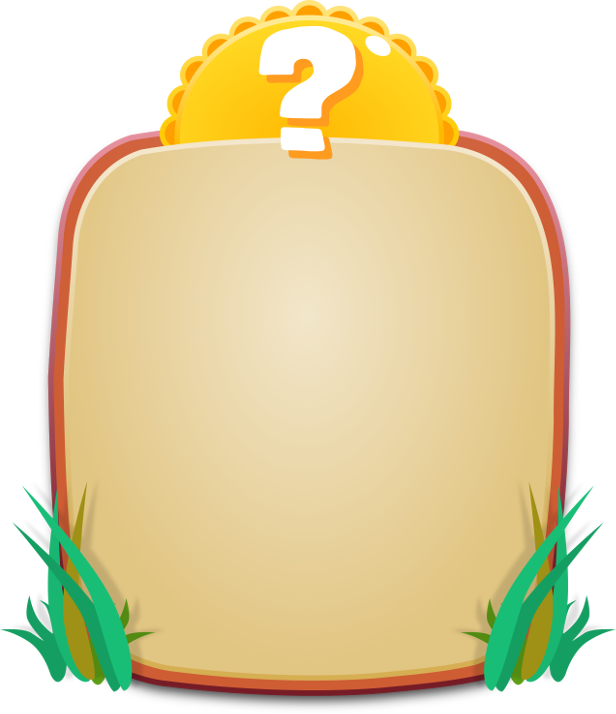
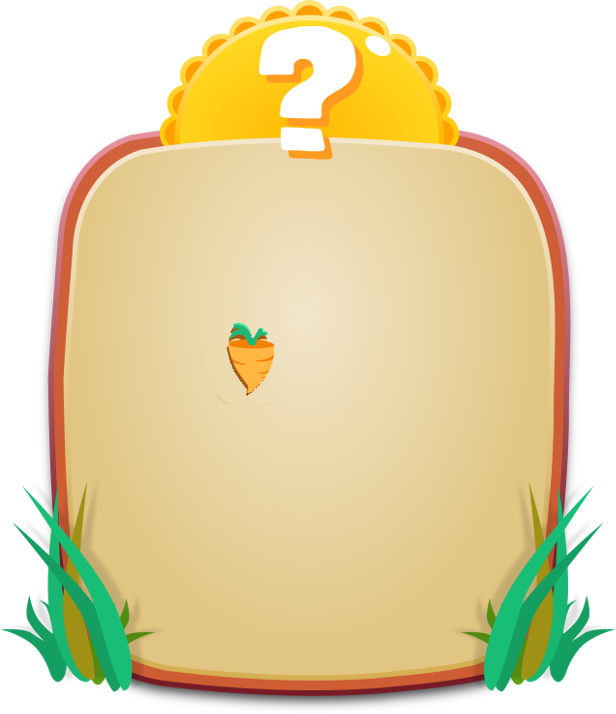
Finished hints functionality

Changed region(s): [[0.3701, 0.4314, 0.4627, 0.5546]]

diff --git a/core/src/es/seastorm/merlin/screens/labyrint/LabyrintScreenController.java b/core/src/es/seastorm/merlin/screens/labyrint/LabyrintScreenController.java
@@ -22,6 +22,7 @@ import es.seastorm.merlin.assets.GameAssets;
 import es.seastorm.merlin.cache.Cache;
 import es.seastorm.merlin.gameobjects.Animal;
 import es.seastorm.merlin.gameobjects.Box;
+import es.seastorm.merlin.screens.labyrint.help.BuyHintButton;
 import es.seastorm.merlin.screens.labyrint.help.HelpItem;
 import es.seastorm.merlin.screens.labyrint.help.InfoWindow;
 import es.seastorm.merlin.screens.labyrint.logic.Engine2;
@@ -59,12 +60,14 @@ public class LabyrintScreenController extends Controller {
     int currentSection;
     int currentLevel;
     int numMoves;
+    int megahit = 0;
 
 
     Array<SimpleGameObject> wallsH;
     Array<SimpleGameObject> wallsV;
     Array<HelpItem> helpItems;
-    SimpleGameObject btnHint, btnBuyHint;
+    SimpleGameObject btnHint;
+    BuyHintButton btnBuyHint;
 
 
     Labyrinth labyrinth;
@@ -259,9 +262,9 @@ public class LabyrintScreenController extends Controller {
         levelInfo.visible = false;
         addGameObject(levelInfo);
 
-        btnBuyHint = new SimpleGameObject(GameAssets.instance.getTextureRegion(GameAssets.ASSET_BTN_BUY_HINT));
+        btnBuyHint = new BuyHintButton();
         btnBuyHint.position.x = posMiddleX(btnBuyHint);
-        btnBuyHint.position.y = 100;
+        btnBuyHint.position.y = 90;
         btnBuyHint.visible = false;
         addGameObject(btnBuyHint);
 
@@ -573,6 +576,15 @@ public class LabyrintScreenController extends Controller {
                         bunny,
                         pos.x - 17,
                         pos.y - 20
+                );
+
+            } else if (level == 5) {
+                helpItems.get(1).initialize(
+                        "HELP_0_5_0",
+                        Utils.coordsToScreen(3, 3),
+                        bunny,
+                        1142,
+                        592
                 );
 
             } else if (level == 9) {
@@ -949,6 +961,17 @@ public class LabyrintScreenController extends Controller {
 
                     }
                     if (object.equals(levelInfo)) {
+                        System.out.println(y);
+                        System.out.println(Constants.HEIGHT - 100);
+                        if (y > Constants.HEIGHT - 100) {
+                            megahit++;
+                            if (megahit == 15) {
+                                megahit = 0;
+                                ((MerlinGame) game).setTreasure(100);
+                                levelInfo.setText("100");
+
+                            }
+                        }
                         close = false;
                     }
                 }
@@ -975,12 +998,12 @@ public class LabyrintScreenController extends Controller {
 
     private void showInfo() {
         int treasure = ((MerlinGame) game).getTreasure();
-        System.out.println("Treasure: " + treasure);
         mode = MODE_INFO;
         Cache.backgroundBlack.visible = true;
         levelInfo.setText(Integer.toString(treasure));
         levelInfo.visible = true;
         btnBuyHint.visible = true;
+        megahit = 0;
     }
 
     private void closeInfo() {

diff --git a/core/src/es/seastorm/merlin/screens/labyrint/help/InfoWindow.java b/core/src/es/seastorm/merlin/screens/labyrint/help/InfoWindow.java
@@ -11,9 +11,13 @@ import es.seastorm.merlin.gameobjects.Animal;
 
 public class InfoWindow extends SimpleGameObject {
     public String text;
+    public String[] title;
+    public String[] explanation;
 
     public InfoWindow() {
         super(GameAssets.instance.getTextureRegion(GameAssets.LEVEL_INFO));
+        title = MerlinGame.textBundle.get("BUY_HINT_TITLE").split("\n");
+        explanation = MerlinGame.textBundle.get("BUY_HINT_EXPLANATION").split("\n");
     }
 
     public void setText(String text) {
@@ -25,7 +29,20 @@ public class InfoWindow extends SimpleGameObject {
         super.render(batch);
 
         if (this.visible && this.text != null) {
-            Cache.font.draw(batch, text, 600, 300);
+            float x = this.position.x + this.dimension.x / 2 - (10 * title[0].length());
+            Cache.font.draw(batch, title[0], x, this.position.y + 500);
+            x = this.position.x + this.dimension.x / 2 - (10 * title[1].length());
+            Cache.font.draw(batch, title[1], x, this.position.y + 465);
+
+
+            x = this.position.x + this.dimension.x / 2 - (10 * explanation[0].length());
+            Cache.font.draw(batch, explanation[0], x, this.position.y + 270);
+            x = this.position.x + this.dimension.x / 2 - (10 * explanation[1].length());
+            Cache.font.draw(batch, explanation[1], x, this.position.y + 240);
+            x = this.position.x + this.dimension.x / 2 - (10 * explanation[2].length());
+            Cache.font.draw(batch, explanation[2], x, this.position.y + 210);
+
+            Cache.font.draw(batch, "x " + text, 640, 360);
         }
     }
 }

diff --git a/core/src/es/seastorm/merlin/screens/labyrint/help/BuyHintButton.java b/core/src/es/seastorm/merlin/screens/labyrint/help/BuyHintButton.java
@@ -1,0 +1,25 @@
+package es.seastorm.merlin.screens.labyrint.help;
+
+import com.badlogic.gdx.graphics.g2d.SpriteBatch;
+
+import dragongames.base.gameobject.SimpleGameObject;
+import es.seastorm.merlin.MerlinGame;
+import es.seastorm.merlin.assets.GameAssets;
+import es.seastorm.merlin.cache.Cache;
+
+public class BuyHintButton extends SimpleGameObject {
+
+    public BuyHintButton() {
+        super(GameAssets.instance.getTextureRegion(GameAssets.ASSET_BTN_BUY_HINT));
+    }
+
+
+    @Override
+    public void render(SpriteBatch batch) {
+        super.render(batch);
+
+        if (this.visible) {
+            Cache.font.draw(batch, MerlinGame.textBundle.get("BUY_HINT_BTN"), this.position.x + 40, this.position.y + 50);
+        }
+    }
+}

diff --git a/core/src/es/seastorm/merlin/screens/labyrint/help/HelpItem.java b/core/src/es/seastorm/merlin/screens/labyrint/help/HelpItem.java
@@ -56,7 +56,7 @@ public class HelpItem extends SimpleGameObject {
             for (String line : lines) {
                 float x = 640 - (10 * line.length());
                 Cache.font.draw(batch, line, x, y);
-                y -= 30;
+                y -= 34;
             }
         }
     }
